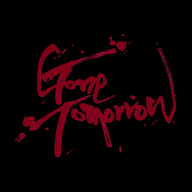
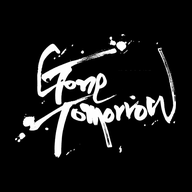
앱 아이콘: 검은 바탕 흰색 붓글씨

diff --git a/index.html b/index.html
@@ -16,7 +16,7 @@
 <link rel="preconnect" href="https://fonts.gstatic.com" crossorigin>
 <link href="https://fonts.googleapis.com/css2?family=Noto+Serif+KR:wght@400;500;600;700&display=swap" rel="stylesheet">
 <link rel="stylesheet" href="https://cdn.jsdelivr.net/gh/orioncactus/pretendard@v1.3.9/dist/web/static/pretendard-dynamic-subset.min.css">
-<link rel="stylesheet" href="css/style.css?v=1790004536">
+<link rel="stylesheet" href="css/style.css?v=1790005855">
 </head>
 <body>
 
@@ -139,7 +139,7 @@
 </footer>
 
 <script src="https://cdnjs.cloudflare.com/ajax/libs/html2canvas/1.4.1/html2canvas.min.js"></script>
-<script src="js/data.js?v=1790004536"></script>
-<script src="js/app.js?v=1790004536"></script>
+<script src="js/data.js?v=1790005855"></script>
+<script src="js/app.js?v=1790005855"></script>
 </body>
 </html>
